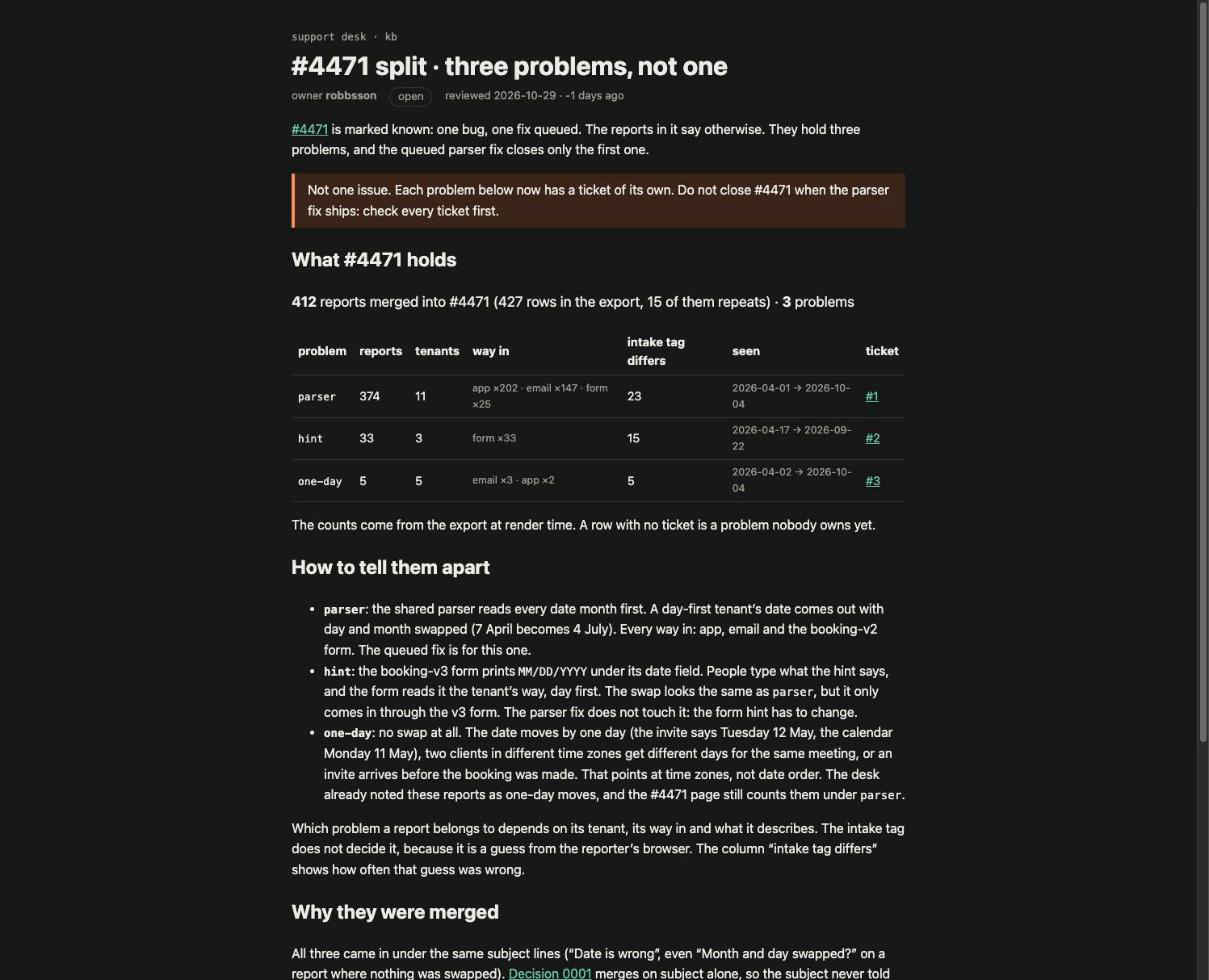
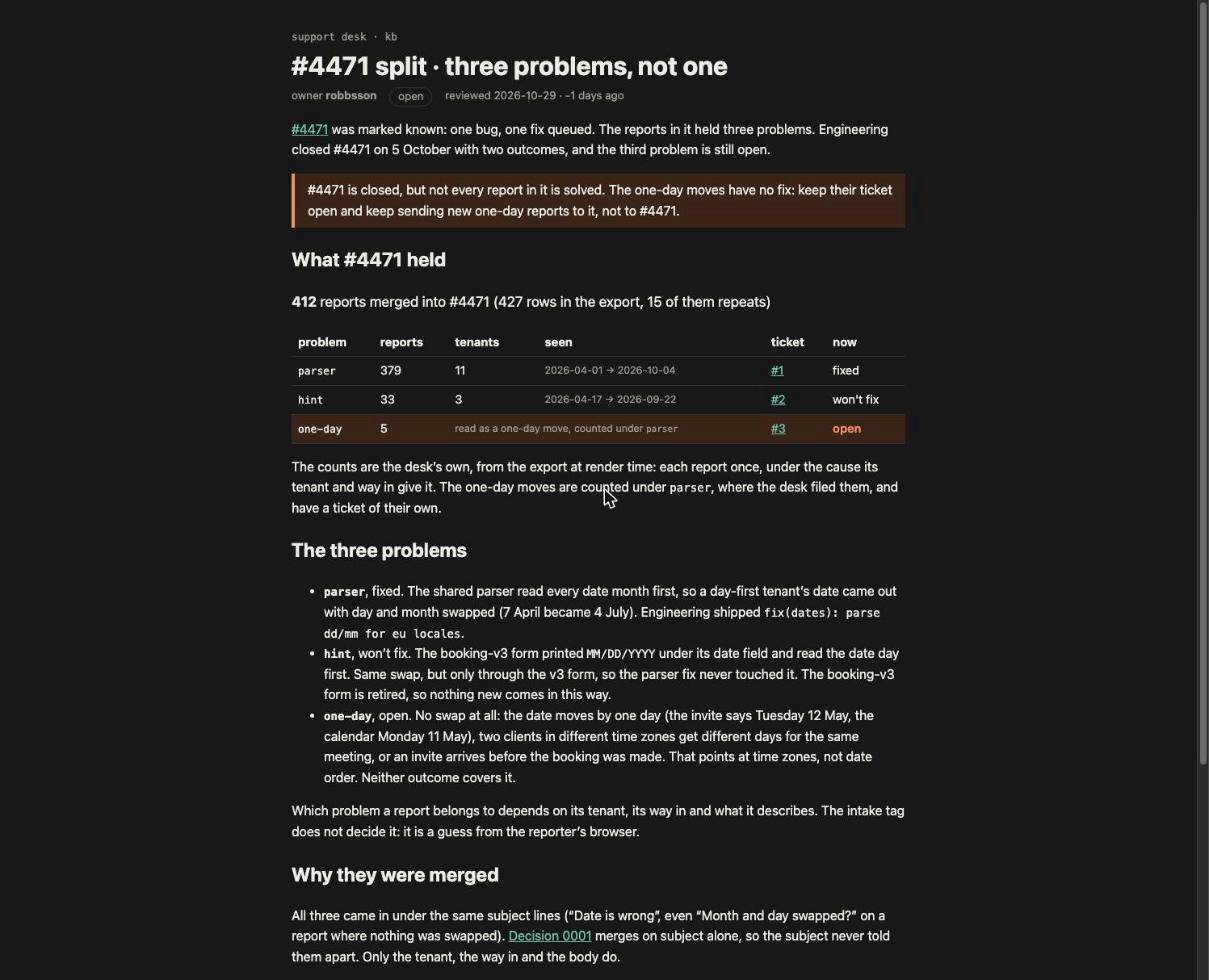
Update #4471 split page after engineering closed #4471
Counts follow the desk's CauseTable view (parser 379, hint 33; the 5
one-day moves stay under parser and get their own row). Adds each
problem's outcome: parser fixed, hint won't fix, one-day still open.

Changed region(s): [[0.2448, 0.3061, 0.7651, 1.0], [0.2448, 0.1224, 0.7345, 0.2755], [0.9793, 0.7653, 1.0, 0.7959]]

diff --git a/rendered/4471-split.html b/rendered/4471-split.html
@@ -4,7 +4,7 @@
 </style>
 		<style>aside.svelte-hdh0t2{border-left:4px solid var(--accent);padding:.5rem 1rem;margin:1rem 0;background:var(--note-bg)}aside.warn.svelte-hdh0t2{border-color:var(--warn);background:var(--warn-bg)}
 </style>
-		<style>.sum.svelte-1bzcv41{font-size:1.1rem}.small.svelte-1bzcv41{color:var(--muted);font-size:.85em}.loose.svelte-1bzcv41 td:where(.svelte-1bzcv41){background:var(--warn-bg)}.check.svelte-1bzcv41{color:var(--warn);font-weight:600}.stamp.svelte-5qojh0{margin:2rem 0 0;font:.85rem var(--mono);color:var(--muted)}.stamp.svelte-5qojh0 b:where(.svelte-5qojh0){color:var(--accent);letter-spacing:.04em}.missing.svelte-5qojh0{color:var(--warn)}
+		<style>.sum.svelte-kl0i4{font-size:1.1rem}.small.svelte-kl0i4{color:var(--muted);font-size:.85em}.loose.svelte-kl0i4 td:where(.svelte-kl0i4),.open.svelte-kl0i4 td:where(.svelte-kl0i4){background:var(--warn-bg)}.open.svelte-kl0i4 td:where(.svelte-kl0i4):last-child{color:var(--warn);font-weight:600}.stamp.svelte-5qojh0{margin:2rem 0 0;font:.85rem var(--mono);color:var(--muted)}.stamp.svelte-5qojh0 b:where(.svelte-5qojh0){color:var(--accent);letter-spacing:.04em}.missing.svelte-5qojh0{color:var(--warn)}
 </style>
 		
 		
@@ -22,22 +22,22 @@
 		
 		
 		<!--[--><!--]--><title>#4471 split · three problems, not one · support kb</title></head>
-<body><div style="display: contents"><!--[--><!--[--><!----><!----><div class="kb svelte-60g32v"><header><a class="crumb svelte-60g32v" href="/kb">support desk · kb</a> <h1 class="svelte-60g32v">#4471 split · three problems, not one</h1> <p class="meta svelte-60g32v"><span>owner <b>robbsson</b></span> <span class="status open svelte-60g32v">open</span> <span class="svelte-60g32v">reviewed 2026-10-29 · -1 days ago</span></p></header> <!--[!--><!--]--> <main><p><a href="/kb/incidents/4471">#4471</a> is marked known: one bug, one fix queued. The reports in it say
-otherwise. They hold three problems, and the queued parser fix closes only the first one.</p> <aside class="warn svelte-hdh0t2"><!---->Not one issue. Each problem below now has a ticket of its own. Do not close #4471 when the
-parser fix ships: check every ticket first.<!----></aside><!----> <h2>What #4471 holds</h2> <p class="sum svelte-1bzcv41"><strong>412</strong> reports merged into #4471 (427 rows in the export, 15 of them repeats) · <strong>3</strong> problems</p> <table><thead><tr><th>problem</th><th>reports</th><th>tenants</th><th>way in</th><th>intake tag differs</th><th>seen</th><th>ticket</th></tr></thead><tbody><!--[--><tr class="svelte-1bzcv41"><td class="svelte-1bzcv41"><code>parser</code></td><td class="svelte-1bzcv41">374</td><td class="svelte-1bzcv41">11</td><td class="small svelte-1bzcv41">app ×202 · email ×147 · form ×25</td><td class="svelte-1bzcv41">23</td><td class="small svelte-1bzcv41">2026-04-01 → 2026-10-04</td><td class="svelte-1bzcv41"><!--[--><a href="https://github.com/robbsson/mega-s01e03-support-kb/issues/1">#1</a><!--]--></td></tr><tr class="svelte-1bzcv41"><td class="svelte-1bzcv41"><code>hint</code></td><td class="svelte-1bzcv41">33</td><td class="svelte-1bzcv41">3</td><td class="small svelte-1bzcv41">form ×33</td><td class="svelte-1bzcv41">15</td><td class="small svelte-1bzcv41">2026-04-17 → 2026-09-22</td><td class="svelte-1bzcv41"><!--[--><a href="https://github.com/robbsson/mega-s01e03-support-kb/issues/2">#2</a><!--]--></td></tr><tr class="svelte-1bzcv41"><td class="svelte-1bzcv41"><code>one-day</code></td><td class="svelte-1bzcv41">5</td><td class="svelte-1bzcv41">5</td><td class="small svelte-1bzcv41">email ×3 · app ×2</td><td class="svelte-1bzcv41">5</td><td class="small svelte-1bzcv41">2026-04-02 → 2026-10-04</td><td class="svelte-1bzcv41"><!--[--><a href="https://github.com/robbsson/mega-s01e03-support-kb/issues/3">#3</a><!--]--></td></tr><!--]--></tbody></table> <!--[!--><!--]--><!----> <p>The counts come from the export at render time. A row with no ticket is a problem nobody owns yet.</p> <h2>How to tell them apart</h2> <ul><li><strong><code>parser</code></strong>: the shared parser reads every date month first. A day-first tenant’s
-date comes out with day and month swapped (7 April becomes 4 July). Every way in: app,
-email and the booking-v2 form. The queued fix is for this one.</li> <li><strong><code>hint</code></strong>: the booking-v3 form prints <code>MM/DD/YYYY</code> under its date field. People type what
-the hint says, and the form reads it the tenant’s way, day first. The swap looks the same as <code>parser</code>, but it only comes in through the v3 form. The parser fix does not touch it: the
-form hint has to change.</li> <li><strong><code>one-day</code></strong>: no swap at all. The date moves by one day (the invite says Tuesday 12 May, the
-calendar Monday 11 May),
-two clients in different time zones get different days for the same meeting, or an invite
-arrives before the booking was made. That points at time zones, not date order. The desk
-already noted these reports as one-day moves, and the #4471 page still counts them under <code>parser</code>.</li></ul> <p>Which problem a report belongs to depends on its tenant, its way in and what it describes. The
-intake tag does not decide it, because it is a guess from the reporter’s browser. The column
-“intake tag differs” shows how often that guess was wrong.</p> <h2>Why they were merged</h2> <p>All three came in under the same subject lines (“Date is wrong”, even “Month and day swapped?”
-on a report where nothing was swapped). <a href="/kb/decisions/0001-dedupe-by-subject">Decision 0001</a> merges on subject alone, so the
-subject never told them apart. Only the tenant, the way in and the body do.</p> <h2>Lessons</h2> <ul><li>A big ticket can hold more than one bug. Before marking it known, group it by what a fix
-would have to change, not by subject.</li> <li>Count each report once: the export repeats rows across pages.</li></ul> <!--[--><p class="stamp svelte-5qojh0">desk ref <b class="svelte-5qojh0">DR-T0SW-M6NP</b></p><!--]--><!----><!----></main> <footer class="svelte-60g32v">Pages are written by people. Tables and charts are built from data at render time.</footer></div><!----><!----><!----><!--]--> <!--[!--><!--]--><!--]-->
+<body><div style="display: contents"><!--[--><!--[--><!----><!----><div class="kb svelte-60g32v"><header><a class="crumb svelte-60g32v" href="/kb">support desk · kb</a> <h1 class="svelte-60g32v">#4471 split · three problems, not one</h1> <p class="meta svelte-60g32v"><span>owner <b>robbsson</b></span> <span class="status open svelte-60g32v">open</span> <span class="svelte-60g32v">reviewed 2026-10-29 · -1 days ago</span></p></header> <!--[!--><!--]--> <main><p><a href="/kb/incidents/4471">#4471</a> was marked known: one bug, one fix queued. The reports in it held
+three problems. Engineering closed #4471 on 5 October with two outcomes, and the third problem
+is still open.</p> <aside class="warn svelte-hdh0t2"><!---->#4471 is closed, but not every report in it is solved. The one-day moves have no fix: keep
+their ticket open and keep sending new one-day reports to it, not to #4471.<!----></aside><!----> <h2>What #4471 held</h2> <p class="sum svelte-kl0i4"><strong>412</strong> reports merged into #4471 (427 rows in the export, 15 of them repeats)</p> <table><thead><tr><th>problem</th><th>reports</th><th>tenants</th><th>seen</th><th>ticket</th><th>now</th></tr></thead><tbody><!--[--><tr class="svelte-kl0i4"><td class="svelte-kl0i4"><code>parser</code></td><td class="svelte-kl0i4">379</td><td class="svelte-kl0i4">11</td><td class="small svelte-kl0i4">2026-04-01 → 2026-10-04</td><td class="svelte-kl0i4"><!--[--><a href="https://github.com/robbsson/mega-s01e03-support-kb/issues/1">#1</a><!--]--></td><td class="svelte-kl0i4">fixed</td></tr><tr class="svelte-kl0i4"><td class="svelte-kl0i4"><code>hint</code></td><td class="svelte-kl0i4">33</td><td class="svelte-kl0i4">3</td><td class="small svelte-kl0i4">2026-04-17 → 2026-09-22</td><td class="svelte-kl0i4"><!--[--><a href="https://github.com/robbsson/mega-s01e03-support-kb/issues/2">#2</a><!--]--></td><td class="svelte-kl0i4">won't fix</td></tr><!--]--><!--[--><tr class="svelte-kl0i4 open"><td class="svelte-kl0i4"><code>one-day</code></td><td class="svelte-kl0i4">5</td><td class="small svelte-kl0i4" colspan="2">read as a one-day move, counted under <code>parser</code></td><td class="svelte-kl0i4"><!--[--><a href="https://github.com/robbsson/mega-s01e03-support-kb/issues/3">#3</a><!--]--></td><td class="svelte-kl0i4">open</td></tr><!--]--></tbody></table><!----> <p>The counts are the desk’s own, from the export at render time: each report once, under the
+cause its tenant and way in give it. The one-day moves are counted under <code>parser</code>, where the
+desk filed them, and have a ticket of their own.</p> <h2>The three problems</h2> <ul><li><strong><code>parser</code></strong>, fixed. The shared parser read every date month first, so a day-first tenant’s
+date came out with day and month swapped (7 April became 4 July). Engineering shipped <code>fix(dates): parse dd/mm for eu locales</code>.</li> <li><strong><code>hint</code></strong>, won’t fix. The booking-v3 form printed <code>MM/DD/YYYY</code> under its date field and read
+the date day first. Same swap, but only through the v3 form, so the parser fix never touched
+it. The booking-v3 form is retired, so nothing new comes in this way.</li> <li><strong><code>one-day</code></strong>, open. No swap at all: the date moves by one day (the invite says Tuesday 12 May,
+the calendar Monday 11 May), two clients in different time zones get different days for the
+same meeting, or an invite arrives before the booking was made. That points at time zones,
+not date order. Neither outcome covers it.</li></ul> <p>Which problem a report belongs to depends on its tenant, its way in and what it describes. The
+intake tag does not decide it: it is a guess from the reporter’s browser.</p> <h2>Why they were merged</h2> <p>All three came in under the same subject lines (“Date is wrong”, even “Month and day swapped?”
+on a report where nothing was swapped). <a href="/kb/decisions/0001-dedupe-by-subject">Decision 0001</a> merges on subject alone, so the subject never told them apart. Only the tenant, the way in and
+the body do.</p> <h2>Lessons</h2> <ul><li>A big ticket can hold more than one bug. Before marking it known, group it by what a fix
+would have to change, not by subject.</li> <li>Closing the big ticket is not closing its reports. Check each problem against what shipped.</li></ul> <!--[--><p class="stamp svelte-5qojh0">desk ref <b class="svelte-5qojh0">DR-T0SW-M6NP</b></p><!--]--><!----><!----></main> <footer class="svelte-60g32v">Pages are written by people. Tables and charts are built from data at render time.</footer></div><!----><!----><!----><!--]--> <!--[!--><!--]--><!--]-->
 			
 			
 		</div></body></html>

diff --git a/src/lib/kb/ProblemTable.svelte b/src/lib/kb/ProblemTable.svelte
@@ -1,59 +1,57 @@
 <script lang="ts">
   import reports from '#lib/data/reports-4471.json';
   import notes from '#lib/data/desk-notes.json';
-  import { uniqueById, type Report } from '#lib/kb/causes';
-  import { splitTicket, type Problem } from '#lib/kb/problems';
+  import { groupByCause, readAs, uniqueById, type Report } from '#lib/kb/causes';
   import { tenantOf } from '#lib/kb/locales';
 
-  // tickets: where each problem is tracked now, problem → issue url.
-  let { ticket, tickets = {} }: { ticket: number; tickets?: Partial<Record<Problem, string>> } = $props();
+  // Counts as the desk counts them (CauseTable): one row per cause, by tenant. Reports the desk
+  // read as a one-day move stay counted where they are filed and get a row of their own below.
+  type Row = { url: string; outcome: string };
+  let { ticket, tickets = {} }: { ticket: number; tickets?: Record<string, Row> } = $props();
 
   const all = reports as Report[];
-  const merged = $derived(uniqueById(all).filter((r) => r.mergedInto === ticket).length);
-  const groups = $derived(splitTicket(all, ticket, tenantOf, notes.oneDayMove));
-  const counted = $derived(groups.reduce((n, g) => n + g.reports.length, 0));
+  const merged = $derived(uniqueById(all).filter((r) => r.mergedInto === ticket));
+  const groups = $derived(groupByCause(merged, tenantOf));
+  const oneDay = $derived(groups.map((g) => ({ cause: g.cause, n: readAs(g, notes.oneDayMove) })).filter((x) => x.n));
   const issueNo = (url: string) => '#' + url.split('/').pop();
-  const channels = (c: Record<string, number>) =>
-    Object.entries(c)
-      .sort((a, b) => b[1] - a[1])
-      .map(([ch, n]) => `${ch} ×${n}`)
-      .join(' · ');
 </script>
 
 <p class="sum">
-  <strong>{merged}</strong> reports merged into #{ticket} ({all.length} rows in the export, {all.length - merged} of them repeats) ·
-  <strong>{groups.length}</strong>
-  {groups.length === 1 ? 'problem' : 'problems'}
+  <strong>{merged.length}</strong> reports merged into #{ticket} ({all.length} rows in the export, {all.length - merged.length} of them repeats)
 </p>
 
 <table>
   <thead>
-    <tr><th>problem</th><th>reports</th><th>tenants</th><th>way in</th><th>intake tag differs</th><th>seen</th><th>ticket</th></tr>
+    <tr><th>problem</th><th>reports</th><th>tenants</th><th>seen</th><th>ticket</th><th>now</th></tr>
   </thead>
   <tbody>
-    {#each groups as g (g.problem)}
-      <tr class:loose={!tickets[g.problem]}>
-        <td><code>{g.problem}</code></td>
+    {#each groups as g (g.cause)}
+      {@const t = tickets[g.cause]}
+      <tr class:loose={!t}>
+        <td><code>{g.cause}</code></td>
         <td>{g.reports.length}</td>
-        <td>{g.tenants.length}</td>
-        <td class="small">{channels(g.channels)}</td>
-        <td>{g.mistagged}</td>
+        <td>{g.tenants}</td>
         <td class="small">{g.firstSeen} → {g.lastSeen}</td>
-        <td>
-          {#if tickets[g.problem]}<a href={tickets[g.problem]}>{issueNo(tickets[g.problem]!)}</a>{:else}no ticket{/if}
-        </td>
+        <td>{#if t}<a href={t.url}>{issueNo(t.url)}</a>{:else}no ticket{/if}</td>
+        <td>{t?.outcome ?? ''}</td>
+      </tr>
+    {/each}
+    {#each oneDay as d (d.cause)}
+      {@const t = tickets['one-day']}
+      <tr class:loose={!t} class:open={t}>
+        <td><code>one-day</code></td>
+        <td>{d.n}</td>
+        <td class="small" colspan="2">read as a one-day move, counted under <code>{d.cause}</code></td>
+        <td>{#if t}<a href={t.url}>{issueNo(t.url)}</a>{:else}no ticket{/if}</td>
+        <td>{t?.outcome ?? ''}</td>
       </tr>
     {/each}
   </tbody>
 </table>
 
-{#if counted !== merged}
-  <p class="check">The problems cover {counted} of {merged} reports. Something is counted twice or not at all.</p>
-{/if}
-
 <style>
   .sum { font-size: 1.1rem; }
   .small { color: var(--muted); font-size: 0.85em; }
-  .loose td { background: var(--warn-bg); }
-  .check { color: var(--warn); font-weight: 600; }
+  .loose td, .open td { background: var(--warn-bg); }
+  .open td:last-child { color: var(--warn); font-weight: 600; }
 </style>
